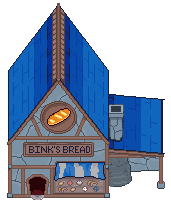
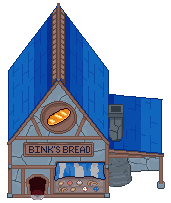
Fixed Tree, house ,stone , mushroom art

diff --git a/Assets/Tiled/Tilesets/Objects_Trees_New.tsx b/Assets/Tiled/Tilesets/Objects_Trees_New.tsx
@@ -1,5 +1,5 @@
 <?xml version="1.0" encoding="UTF-8"?>
-<tileset version="1.10" tiledversion="1.10.2" name="Objects_Trees_New" tilewidth="300" tileheight="300" tilecount="31" columns="0">
+<tileset version="1.10" tiledversion="1.10.2" name="Objects_Trees_New" tilewidth="300" tileheight="300" tilecount="36" columns="0">
  <grid orientation="orthogonal" width="1" height="1"/>
  <tile id="0">
   <image width="27" height="27" source="../../Art/Trees and Bushes/Assets/ChoppedTree 1.png"/>
@@ -114,7 +114,7 @@
   </objectgroup>
  </tile>
  <tile id="14">
-  <image width="70" height="90" source="../../Art/Trees and Bushes/Assets/Tree 5 Vines.png"/>
+  <image width="90" height="115" source="../../Art/Trees and Bushes/Assets/Tree 5 Vines.png"/>
   <objectgroup draworder="index" id="2">
    <object id="1" x="25.0909" y="73.7273">
     <polygon points="0,0 1.45455,-4.27273 20.7273,-6.63636 21.5455,1.36364 14.7273,3.81818 5.18182,3.36364"/>
@@ -212,10 +212,13 @@
   </objectgroup>
  </tile>
  <tile id="29">
-  <image width="100" height="100" source="../../Art/Trees and Bushes/Assets/Bush 5.png"/>
+  <image width="26" height="25" source="../../Art/Trees and Bushes/Assets/Bush 5.png"/>
   <objectgroup draworder="index" id="2">
    <object id="1" x="13" y="67">
     <polygon points="0,0 1.75,5 1.25,11 0,15.25 2.75,20 7.25,23.25 13.75,29 15.75,30.75 53,31.25 59.75,26 59.25,19.5 64.75,15.5 64.25,0.25"/>
+   </object>
+   <object id="2" x="7" y="21.5455">
+    <polygon points="0,0 12.6364,1 16.5455,-5 -3.72727,-5.54545"/>
    </object>
   </objectgroup>
  </tile>
@@ -226,5 +229,20 @@
     <polygon points="0,0 0,5 -5.25,10.75 -5.5,14.25 4,21.25 55.25,22 60,16.75 58,11.5 57.5,1.75"/>
    </object>
   </objectgroup>
+ </tile>
+ <tile id="31">
+  <image width="16" height="16" source="../../Art/Trees and Bushes/Assets/16x16StoneV1.png"/>
+ </tile>
+ <tile id="32">
+  <image width="16" height="16" source="../../Art/Trees and Bushes/Assets/16x16StoneV2.png"/>
+ </tile>
+ <tile id="33">
+  <image width="16" height="16" source="../../Art/Trees and Bushes/Assets/16x16StoneV3.png"/>
+ </tile>
+ <tile id="34">
+  <image width="16" height="16" source="../../Art/Trees and Bushes/Assets/16x16StoneV4.png"/>
+ </tile>
+ <tile id="35">
+  <image width="16" height="16" source="../../Art/Trees and Bushes/Assets/16x16Mushrooms.png"/>
  </tile>
 </tileset>

diff --git a/Assets/Tiled/Tilesets/Objects_buildings_new.tsx b/Assets/Tiled/Tilesets/Objects_buildings_new.tsx
@@ -32,7 +32,7 @@
   </objectgroup>
  </tile>
  <tile id="2">
-  <image source="../../Art/Buildings/Assets/HouseAaronV3.png"/>
+  <image width="174" height="123" source="../../Art/Buildings/Assets/HouseAaronV5Red.png"/>
   <objectgroup draworder="index" id="2">
    <object id="1" x="8.25" y="74.75">
     <polygon points="0,0 11.25,0 13.25,41.25 51,41.75 52,-0.5 92.5,-1.25 98.25,1.5 102,1.75 105,-1 162.5,-1.25 164.5,-57.5 -3,-59.5"/>
@@ -40,7 +40,7 @@
   </objectgroup>
  </tile>
  <tile id="1">
-  <image source="../../Art/Buildings/Assets/HouseAaronV4.png"/>
+  <image width="171" height="203" source="../../Art/Buildings/Assets/HouseAaronBakeV4FinalYellow.png"/>
   <objectgroup draworder="index" id="2">
    <object id="1" x="9.25" y="2.5" width="163" height="75.25"/>
    <object id="2" x="22.5" y="74" width="38.5" height="43"/>
